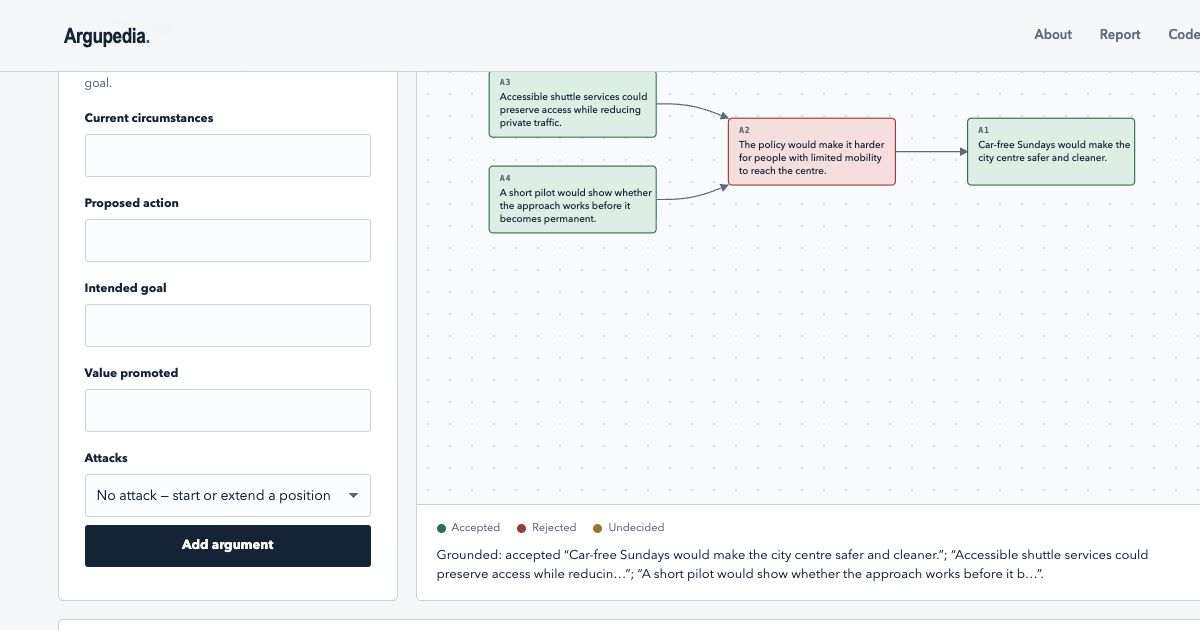
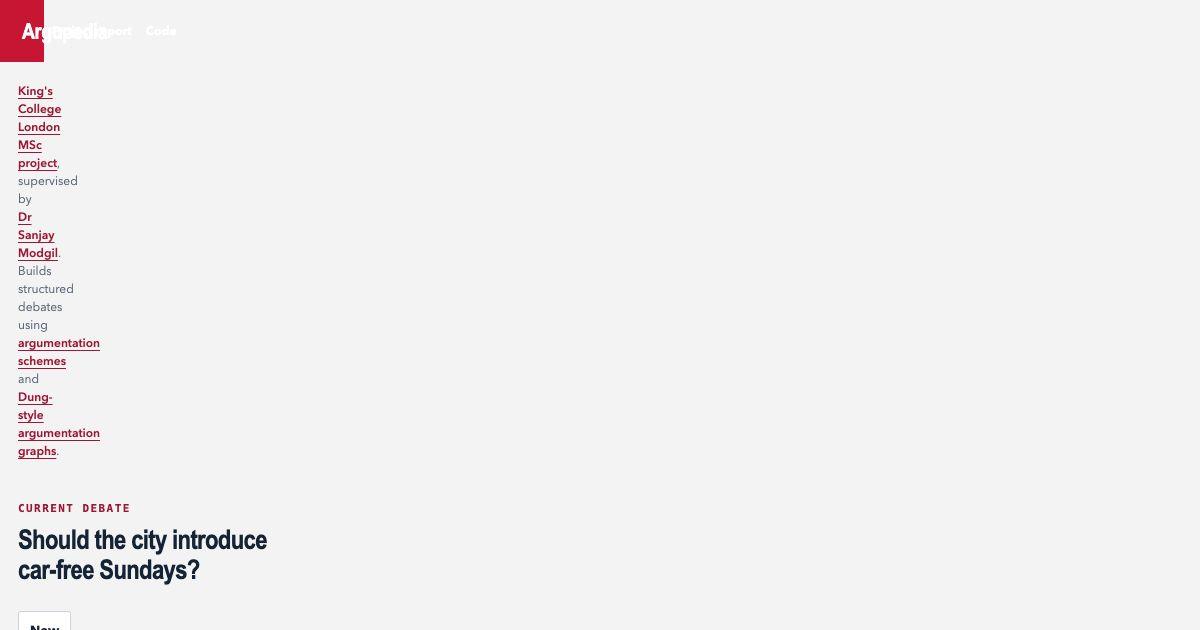
Return Argupedia to a restrained KCL interface

diff --git a/src/styles.css b/src/styles.css
@@ -1,11 +1,11 @@
 :root {
-  --paper: #f4f6f8;
+  --paper: #f3f3f3;
   --white: #ffffff;
   --ink: #152238;
   --muted: #5d697c;
   --line: #cad2dc;
-  --blue: #245ea8;
-  --blue-dark: #164278;
+  --red: #c8102e;
+  --red-dark: #9f1230;
   --accepted: #27724b;
   --accepted-pale: #dcefe4;
   --rejected: #9b3939;
@@ -22,33 +22,30 @@ html { scroll-behavior: smooth; }
 body { margin: 0; color: var(--ink); background: var(--paper); font-family: var(--body); line-height: 1.5; }
 button, input, textarea, select { font: inherit; }
 button, a { -webkit-tap-highlight-color: transparent; }
-a { color: var(--blue-dark); text-decoration-thickness: 1px; text-underline-offset: 3px; }
-a:hover { color: var(--blue); }
-:focus-visible { outline: 3px solid rgba(36, 94, 168, .35); outline-offset: 3px; }
+a { color: var(--red-dark); text-decoration-thickness: 1px; text-underline-offset: 3px; }
+a:hover { color: var(--red); }
+:focus-visible { outline: 3px solid rgba(200, 16, 46, .3); outline-offset: 3px; }
 
-.site-header { height: 72px; display: flex; align-items: center; justify-content: space-between; padding: 0 clamp(22px, 5vw, 76px); border-bottom: 1px solid var(--line); background: rgba(244,246,248,.94); position: sticky; top: 0; z-index: 20; backdrop-filter: blur(12px); }
-.wordmark { font: 800 21px/1 var(--display); letter-spacing: -.02em; color: var(--ink); text-decoration: none; }
-.wordmark span { color: var(--blue); }
+.site-header { min-height: 74px; display: flex; align-items: center; justify-content: space-between; gap: 30px; padding: 12px clamp(22px, 4.5vw, 70px); background: var(--red); position: relative; z-index: 20; }
+.brand-block { display: flex; align-items: baseline; gap: 17px; min-width: 0; color: rgba(255,255,255,.78); }
+.brand-block > span { font-size: 11px; letter-spacing: .03em; white-space: nowrap; }
+.wordmark { font: 800 22px/1 var(--display); letter-spacing: -.02em; color: var(--white); text-decoration: none; }
+.wordmark:hover { color: var(--white); }
 .site-header nav { display: flex; gap: 28px; }
-.site-header nav a { color: var(--muted); text-decoration: none; font-size: 13px; font-weight: 600; }
+.site-header nav a { color: var(--white); text-decoration: none; font-size: 12px; font-weight: 650; white-space: nowrap; }
+.site-header nav a:hover { text-decoration: underline; }
 
-.intro { min-height: 610px; padding: clamp(82px, 11vw, 150px) clamp(22px, 8vw, 130px) 90px; border-bottom: 1px solid var(--line); background-image: radial-gradient(circle, rgba(36,94,168,.18) 1px, transparent 1.3px); background-size: 34px 34px; position: relative; overflow: hidden; }
-.intro::after { content: ""; position: absolute; width: min(42vw, 590px); aspect-ratio: 1; right: -12%; top: -18%; border: 1px solid rgba(36,94,168,.25); border-radius: 50%; box-shadow: 0 0 0 90px rgba(36,94,168,.035), 0 0 0 180px rgba(36,94,168,.025); pointer-events: none; }
-.eyebrow, .section-label { margin: 0 0 20px; color: var(--blue-dark); font: 700 11px/1.2 var(--mono); text-transform: uppercase; letter-spacing: .13em; }
-.intro h1 { position: relative; z-index: 1; max-width: 900px; margin: 0; font: 800 clamp(58px, 9vw, 126px)/.83 var(--display); letter-spacing: -.055em; text-transform: uppercase; }
-.intro h1 span { color: transparent; -webkit-text-stroke: 1.5px var(--ink); }
-.lede { position: relative; z-index: 1; max-width: 620px; margin: 40px 0 0; color: var(--muted); font-size: clamp(17px, 2vw, 21px); line-height: 1.55; }
-.intro-actions { display: flex; align-items: center; gap: 26px; margin-top: 36px; position: relative; z-index: 1; }
+.section-label { margin: 0 0 20px; color: var(--red-dark); font: 700 11px/1.2 var(--mono); text-transform: uppercase; letter-spacing: .13em; }
 .button { border: 1px solid transparent; min-height: 42px; padding: 10px 17px; border-radius: 3px; cursor: pointer; font-size: 13px; font-weight: 700; text-decoration: none; display: inline-flex; align-items: center; justify-content: center; transition: background .15s, border-color .15s, transform .15s; }
-.button:hover { transform: translateY(-1px); }
-.button-primary { color: var(--white); background: var(--ink); }
-.button-primary:hover { color: var(--white); background: var(--blue-dark); }
+.button-primary { color: var(--white); background: var(--red); }
+.button-primary:hover { color: var(--white); background: var(--red-dark); }
 .button-quiet { color: var(--ink); background: var(--white); border-color: var(--line); }
-.button-quiet:hover { border-color: var(--blue); }
+.button-quiet:hover { color: var(--red-dark); border-color: var(--red); }
 .button-full { width: 100%; margin-top: 8px; }
-.text-link { font-size: 14px; font-weight: 700; }
 
-.workspace { padding: 72px clamp(18px, 4.5vw, 70px) 96px; max-width: 1680px; margin: auto; }
+.workspace { padding: 28px clamp(18px, 4.5vw, 70px) 48px; max-width: 1680px; margin: auto; }
+.project-context { margin: 0 0 32px; padding: 0 0 17px; color: var(--muted); border-bottom: 1px solid var(--line); font-size: 13px; }
+.project-context a { font-weight: 600; }
 .workspace-header { display: flex; justify-content: space-between; align-items: end; gap: 24px; margin-bottom: 28px; }
 .workspace-header .section-label { margin-bottom: 10px; }
 #workspace-title { min-width: 260px; margin: 0; font: 750 clamp(27px, 3vw, 42px)/1.12 var(--display); letter-spacing: -.025em; border-bottom: 1px dashed transparent; }
@@ -65,7 +62,7 @@ textarea { resize: vertical; min-height: 88px; }
 select { appearance: none; background-image: linear-gradient(45deg,transparent 50%,var(--muted) 50%),linear-gradient(135deg,var(--muted) 50%,transparent 50%); background-position: calc(100% - 16px) 50%,calc(100% - 11px) 50%; background-size: 5px 5px; background-repeat: no-repeat; padding-right: 28px; }
 .field-help { margin: 7px 0 15px; color: var(--muted); font-size: 12px; line-height: 1.45; }
 .check-row { display: flex; align-items: flex-start; gap: 9px; font-weight: 500; line-height: 1.35; cursor: pointer; }
-.check-row input { margin-top: 2px; accent-color: var(--blue); }
+.check-row input { margin-top: 2px; accent-color: var(--red); }
 
 .graph-panel { min-height: 690px; display: grid; grid-template-rows: auto minmax(510px, 1fr) auto; overflow: hidden; }
 .graph-toolbar { min-height: 74px; padding: 13px 18px; display: flex; align-items: end; gap: 14px; border-bottom: 1px solid var(--line); background: #fafbfd; }
@@ -75,7 +72,7 @@ select { appearance: none; background-image: linear-gradient(45deg,transparent 5
 .graph-actions { display: flex; gap: 6px; margin-left: auto; }
 .graph-hint { align-self: center; margin-right: 6px; color: var(--muted); font-size: 10px; white-space: nowrap; }
 .icon-button { height: 37px; min-width: 42px; color: var(--muted); background: var(--white); border: 1px solid var(--line); border-radius: 3px; cursor: pointer; font: 700 11px/1 var(--mono); }
-.icon-button:hover { color: var(--blue-dark); border-color: var(--blue); }
+.icon-button:hover { color: var(--red-dark); border-color: var(--red); }
 .graph-stage { position: relative; min-height: 510px; overflow: hidden; background-color: #f8fafc; background-image: radial-gradient(circle, #d8dee7 1px, transparent 1.1px); background-size: 22px 22px; }
 #debate-graph { display: block; width: 100%; height: 100%; min-height: 510px; cursor: grab; }
 #debate-graph:active { cursor: grabbing; }
@@ -92,7 +89,7 @@ select { appearance: none; background-image: linear-gradient(45deg,transparent 5
 .graph-empty[hidden], .graph-busy[hidden] { display: none; }
 .graph-empty p { margin: 0; font: 700 23px var(--display); }
 .graph-empty span { color: var(--muted); font-size: 13px; }
-.graph-busy { z-index: 3; color: var(--blue-dark); font: 700 12px var(--mono); text-transform: uppercase; letter-spacing: .08em; }
+.graph-busy { z-index: 3; color: var(--red-dark); font: 700 12px var(--mono); text-transform: uppercase; letter-spacing: .08em; }
 .results { min-height: 88px; padding: 15px 20px; border-top: 1px solid var(--line); background: var(--white); }
 .legend { display: flex; gap: 17px; color: var(--muted); font-size: 11px; }
 .legend span { display: inline-flex; align-items: center; gap: 6px; }
@@ -107,24 +104,12 @@ select { appearance: none; background-image: linear-gradient(45deg,transparent 5
 .argument-list { list-style: none; margin: 0; padding: 0; }
 .argument-list li { display: grid; grid-template-columns: 54px 1fr auto; gap: 12px; align-items: start; padding: 17px 0; border-bottom: 1px solid #e5e9ee; }
 .argument-list li:last-child { border-bottom: 0; }
-.argument-index { color: var(--blue-dark); font: 700 12px var(--mono); padding-top: 3px; }
+.argument-index { color: var(--red-dark); font: 700 12px var(--mono); padding-top: 3px; }
 .argument-list p { margin: 0 0 3px; font-size: 14px; }
 .argument-list div span { color: var(--muted); font-size: 11px; }
 .remove-argument { color: var(--muted); background: none; border: 0; padding: 4px; font-size: 11px; text-decoration: underline; text-underline-offset: 3px; cursor: pointer; }
 .remove-argument:hover { color: var(--rejected); }
 
-.about { display: grid; grid-template-columns: minmax(240px, .85fr) minmax(320px, 1.15fr); column-gap: clamp(50px, 9vw, 150px); padding: clamp(90px, 11vw, 150px) clamp(22px, 8vw, 130px); color: #eef3f8; background: var(--ink); }
-.about .section-label { color: #8fb5e6; }
-.about h2 { max-width: 560px; margin: 0; font: 750 clamp(38px, 5.8vw, 76px)/.96 var(--display); letter-spacing: -.035em; }
-.about-copy { color: #c2ccda; font-size: clamp(16px, 1.5vw, 19px); }
-.about-copy p { margin: 0 0 25px; }
-.about a { color: #dbe9fb; text-decoration-color: #6f94c4; }
-.research-links { grid-column: 1 / -1; display: grid; grid-template-columns: repeat(3, 1fr); margin-top: 76px; border-top: 1px solid #506076; }
-.research-links a { display: flex; gap: 18px; padding: 20px 12px 20px 0; border-bottom: 1px solid #506076; text-decoration: none; font-weight: 650; }
-.research-links a + a { padding-left: 18px; border-left: 1px solid #506076; }
-.research-links span { color: #7f91a8; font: 600 11px var(--mono); }
-footer { min-height: 100px; display: flex; justify-content: space-between; align-items: center; gap: 20px; padding: 28px clamp(22px, 5vw, 76px); color: var(--muted); font-size: 12px; border-top: 1px solid var(--line); }
-footer a { color: inherit; }
 .toast { position: fixed; left: 50%; bottom: 24px; z-index: 50; padding: 12px 17px; color: white; background: var(--ink); border-radius: 3px; font-size: 13px; transform: translate(-50%, 20px); opacity: 0; pointer-events: none; transition: .2s ease; }
 .toast.visible { transform: translate(-50%, 0); opacity: 1; }
 .toast.error { background: var(--rejected); }
@@ -133,20 +118,15 @@ footer a { color: inherit; }
   .workspace-grid { grid-template-columns: 1fr; }
   .composer { order: 2; }
   .graph-panel { order: 1; min-height: 600px; }
-  .about { grid-template-columns: 1fr; }
-  .about-copy { margin-top: 44px; }
-  .research-links { grid-template-columns: 1fr; }
-  .research-links a + a { padding-left: 0; border-left: 0; }
 }
 
 @media (max-width: 620px) {
-  .site-header { height: 62px; }
+  .site-header { min-height: 62px; padding-top: 10px; padding-bottom: 10px; }
+  .brand-block > span { display: none; }
   .site-header nav { gap: 14px; }
-  .site-header nav a:first-child { display: none; }
-  .intro { min-height: 530px; padding-top: 92px; }
-  .intro h1 { font-size: clamp(49px, 17vw, 76px); }
-  .intro-actions { align-items: flex-start; flex-direction: column; gap: 17px; }
-  .workspace { padding-top: 55px; }
+  .site-header nav a:nth-child(2) { display: none; }
+  .workspace { padding-top: 20px; }
+  .project-context { margin-bottom: 24px; font-size: 12px; }
   .workspace-header { align-items: flex-start; flex-direction: column; }
   .file-actions { justify-content: flex-start; }
   .file-actions .button { padding: 9px 11px; }
@@ -160,8 +140,6 @@ footer a { color: inherit; }
   .legend { gap: 10px; flex-wrap: wrap; }
   .argument-list li { grid-template-columns: 38px 1fr; }
   .remove-argument { grid-column: 2; justify-self: start; padding-left: 0; }
-  .research-links { margin-top: 42px; }
-  footer { align-items: flex-start; flex-direction: column; }
 }
 
 @media (prefers-reduced-motion: reduce) {

diff --git a/index.html b/index.html
@@ -15,26 +15,20 @@
   </head>
   <body>
     <header class="site-header">
-      <a class="wordmark" href="#top" aria-label="Argupedia home">Argupedia<span>.</span></a>
+      <div class="brand-block">
+        <a class="wordmark" href="#top" aria-label="Argupedia home">Argupedia</a>
+        <span>AI argumentation prototype · 2021</span>
+      </div>
       <nav aria-label="Project links">
-        <a href="#about">About</a>
-        <a href="./docs/Argupedia-MSc-Project-Report-2021.pdf">Report</a>
+        <a href="./docs/Argupedia-MSc-Project-Report-2021.pdf">Project report</a>
+        <a href="https://youtu.be/1BaNoLEGmrU">2021 demo</a>
         <a href="https://github.com/HumphreyCurtis/Argupedia-Prototype">Code</a>
       </nav>
     </header>
 
     <main id="top">
-      <section class="intro">
-        <p class="eyebrow">King's College London · MSc project · 2021</p>
-        <h1>Structure a debate.<br /><span>See what holds.</span></h1>
-        <p class="lede">Argupedia turns scheme-guided arguments and counterarguments into an interactive debate graph, then evaluates which arguments are accepted, rejected or undecided.</p>
-        <div class="intro-actions">
-          <a class="button button-primary" href="#workspace">Open the workspace</a>
-          <a class="text-link" href="#about">How it works <span aria-hidden="true">↓</span></a>
-        </div>
-      </section>
-
       <section class="workspace" id="workspace" aria-labelledby="workspace-title">
+        <p class="project-context"><a href="https://www.kcl.ac.uk/study/postgraduate-taught/courses/advanced-computing-msc">King's College London MSc project</a>, supervised by <a href="https://www.kcl.ac.uk/people/sanjay-modgil/">Dr Sanjay Modgil</a>. Builds structured debates using <a href="https://www.cambridge.org/core/books/abs/fundamentals-of-critical-argumentation/argumentation-schemes/1943FB11E94A28891357F65E3AEF98C2">argumentation schemes</a> and <a href="https://doi.org/10.1016/0004-3702(94)00041-X">Dung-style argumentation graphs</a>.</p>
         <div class="workspace-header">
           <div>
             <p class="section-label">Current debate</p>
@@ -138,29 +132,7 @@
           <ol class="argument-list" id="argument-list"></ol>
         </section>
       </section>
-
-      <section class="about" id="about">
-        <div class="about-intro">
-          <p class="section-label">About the project</p>
-          <h2>A debate is more than a comment thread.</h2>
-        </div>
-        <div class="about-copy">
-          <p>Argupedia was developed for the <a href="https://www.kcl.ac.uk/study/postgraduate-taught/courses/advanced-computing-msc">Advanced Computing MSc</a> at <a href="https://www.kcl.ac.uk/">King's College London</a>, under the supervision of <a href="https://www.kcl.ac.uk/people/sanjay-modgil/">Dr Sanjay Modgil</a>. It explores whether structured interaction can make online debate more legible and constructive.</p>
-          <p>Arguments follow established <a href="https://www.cambridge.org/core/books/abs/fundamentals-of-critical-argumentation/argumentation-schemes/1943FB11E94A28891357F65E3AEF98C2">argumentation schemes and critical questions</a>. Their attack relationships form a graph based on <a href="https://doi.org/10.1016/0004-3702(94)00041-X">Dung's abstract argumentation frameworks</a>. Grounded, complete and preferred semantics reveal that a debate may have one defensible position, several alternatives, or no settled position at all.</p>
-          <p>This restored edition runs entirely in the browser. Debates stay on your device unless you download their JSON file and share it yourself.</p>
-        </div>
-        <div class="research-links">
-          <a href="./docs/Argupedia-MSc-Project-Report-2021.pdf"><span>01</span> Read the MSc report</a>
-          <a href="https://youtu.be/1BaNoLEGmrU"><span>02</span> Watch the 2021 demonstration</a>
-          <a href="https://github.com/HumphreyCurtis/Argupedia-Prototype"><span>03</span> Explore the source code</a>
-        </div>
-      </section>
     </main>
-
-    <footer>
-      <p>Designed and developed by <a href="https://humphreycurtis.com/">Humphrey Curtis</a>.</p>
-      <p>Argupedia · King's College London · 2021</p>
-    </footer>
 
     <div class="toast" id="toast" role="status" aria-live="polite"></div>
     <script type="module" src="/src/main.js"></script>
